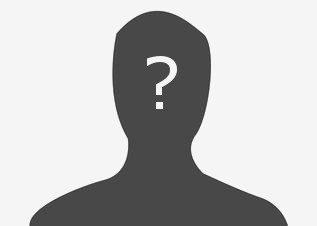
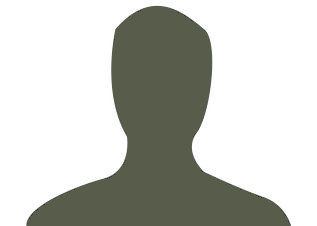
modify silhouettes/waiting divs

diff --git a/index.html b/index.html
@@ -55,7 +55,7 @@
                         <strong>Losses:</strong> <span id="player-1-losses" class="stat">0</span>
                     </div>
                 </div>
-                <div id="wait-1" class="waiting"></div>
+                <div id="wait-1" class="waiting">1</div>
             </div>
             <div class="col-sm-4">
                 <div id="results" class="results-section">&mdash; vs &mdash;</div>
@@ -79,7 +79,7 @@
                         <strong>Losses:</strong> <span id="player-2-losses" class="stat">0</span>
                     </div>
                 </div>
-                <div id="wait-2" class="waiting"></div>
+                <div id="wait-2" class="waiting">2</div>
             </div>
         </div>
         <div class="row">

diff --git a/assets/css/style.css b/assets/css/style.css
@@ -153,8 +153,12 @@ p {
 }
 
 .waiting {
-    background: #f5f5f5 url(../images/silhouette.jpg) center bottom no-repeat;
+    background: #fff url(../images/silhouette.jpg) center bottom no-repeat;
+    border: 2px solid #575c4b;
     border-radius:3px;
+    color: #fff;
+    font-size: 5em;
+    padding-bottom: 35px;
     min-height: 256px;
     display: flex;
     justify-content: center;
